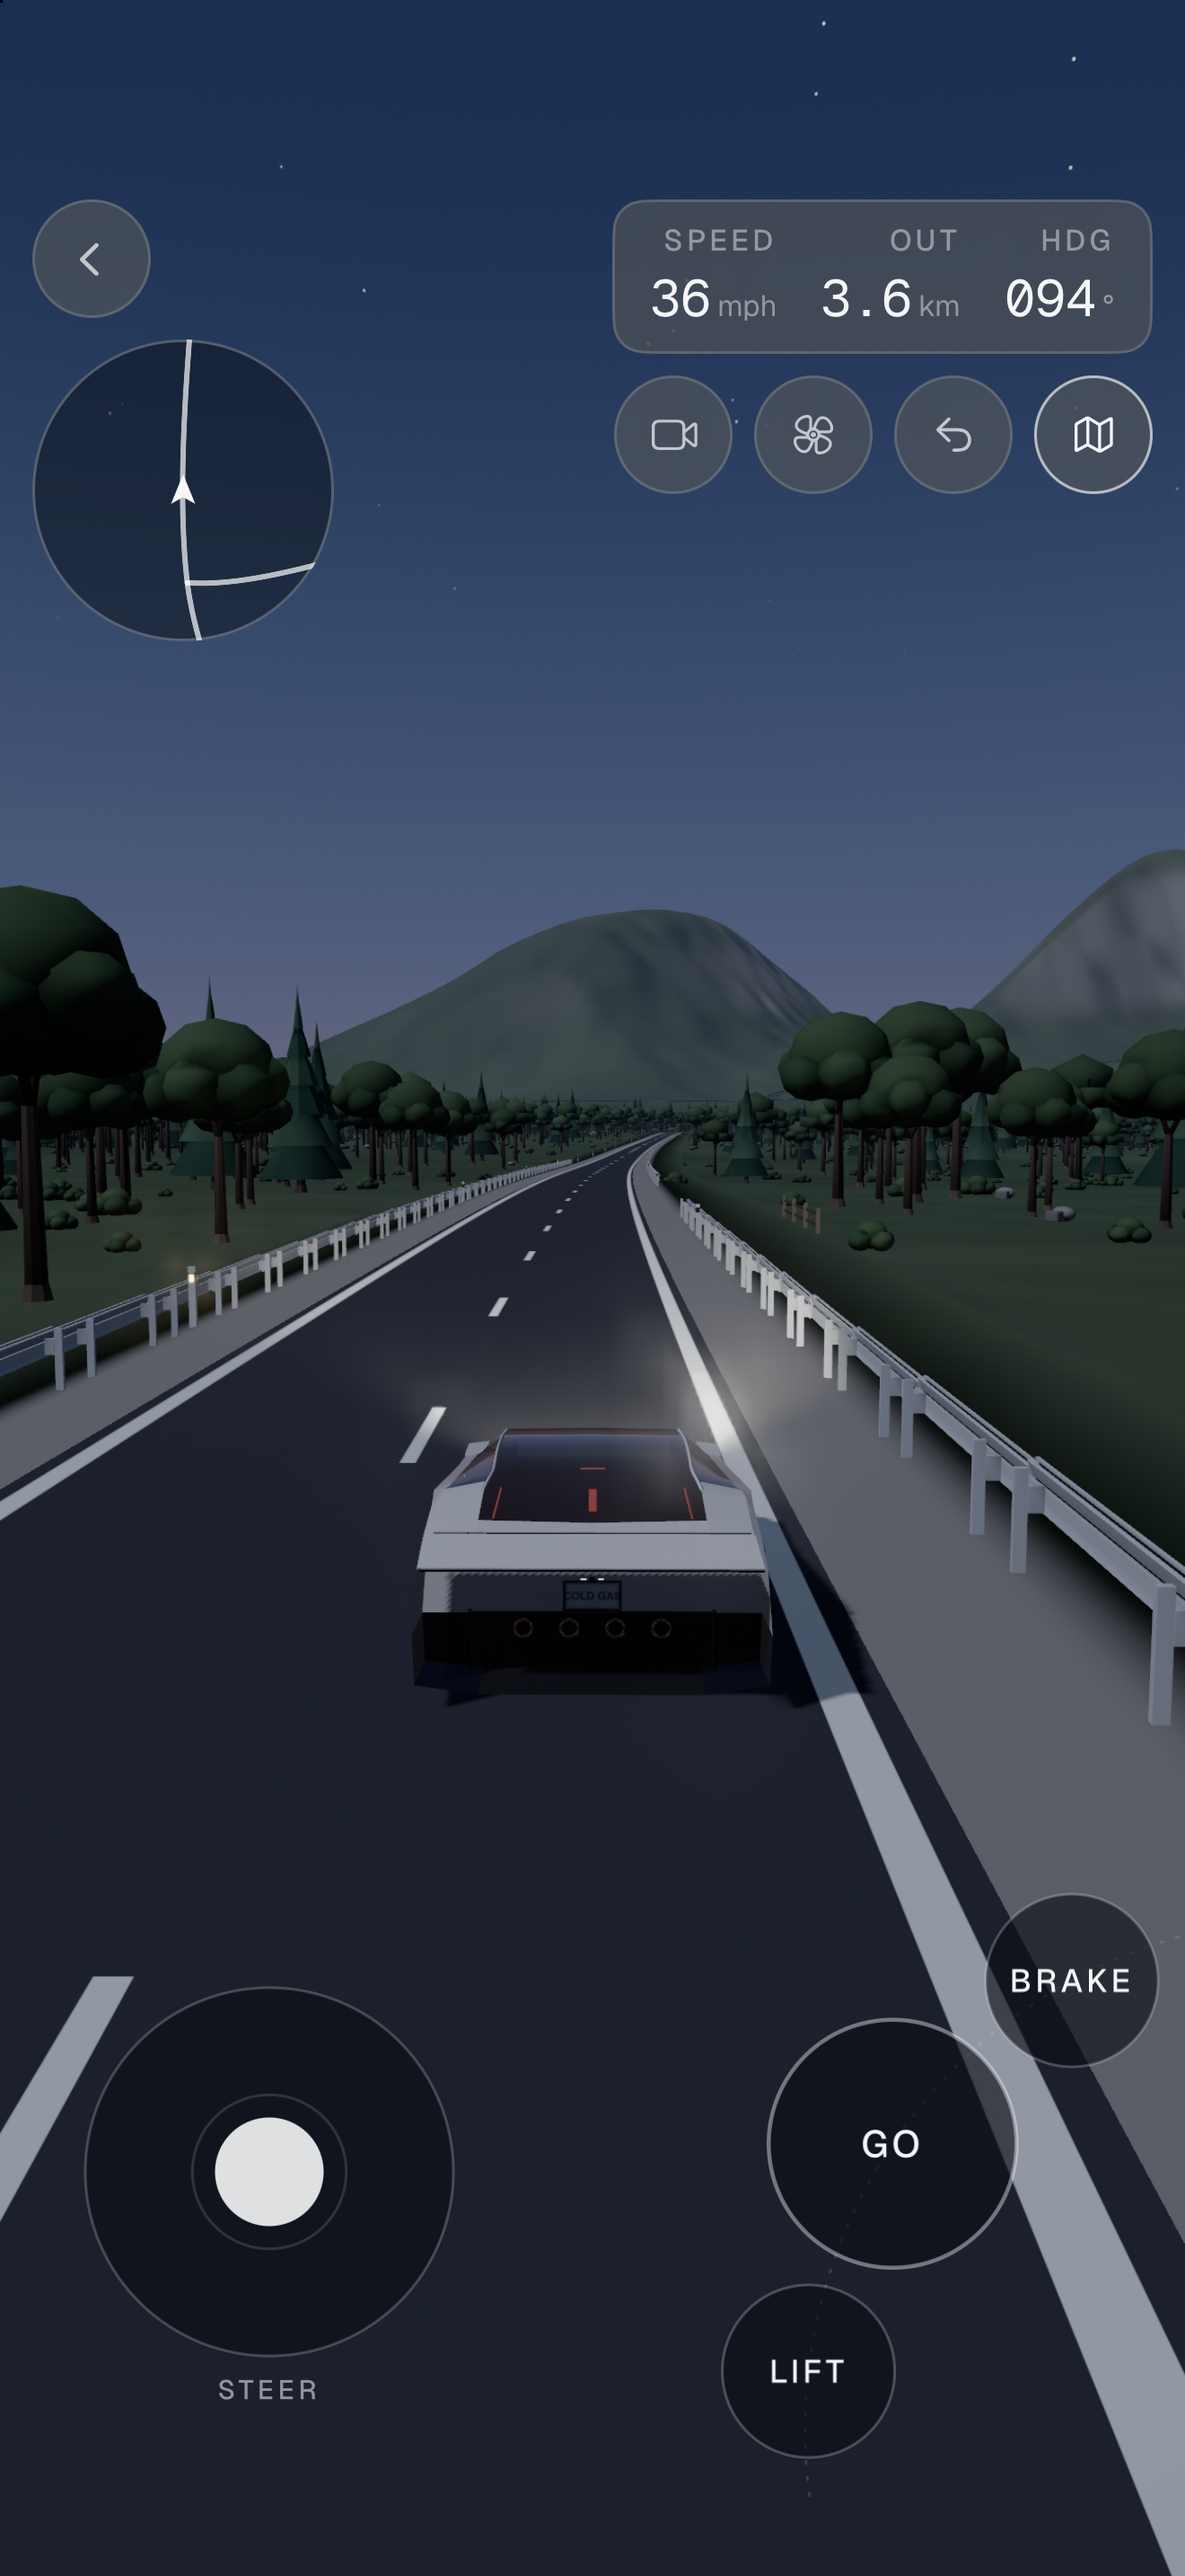
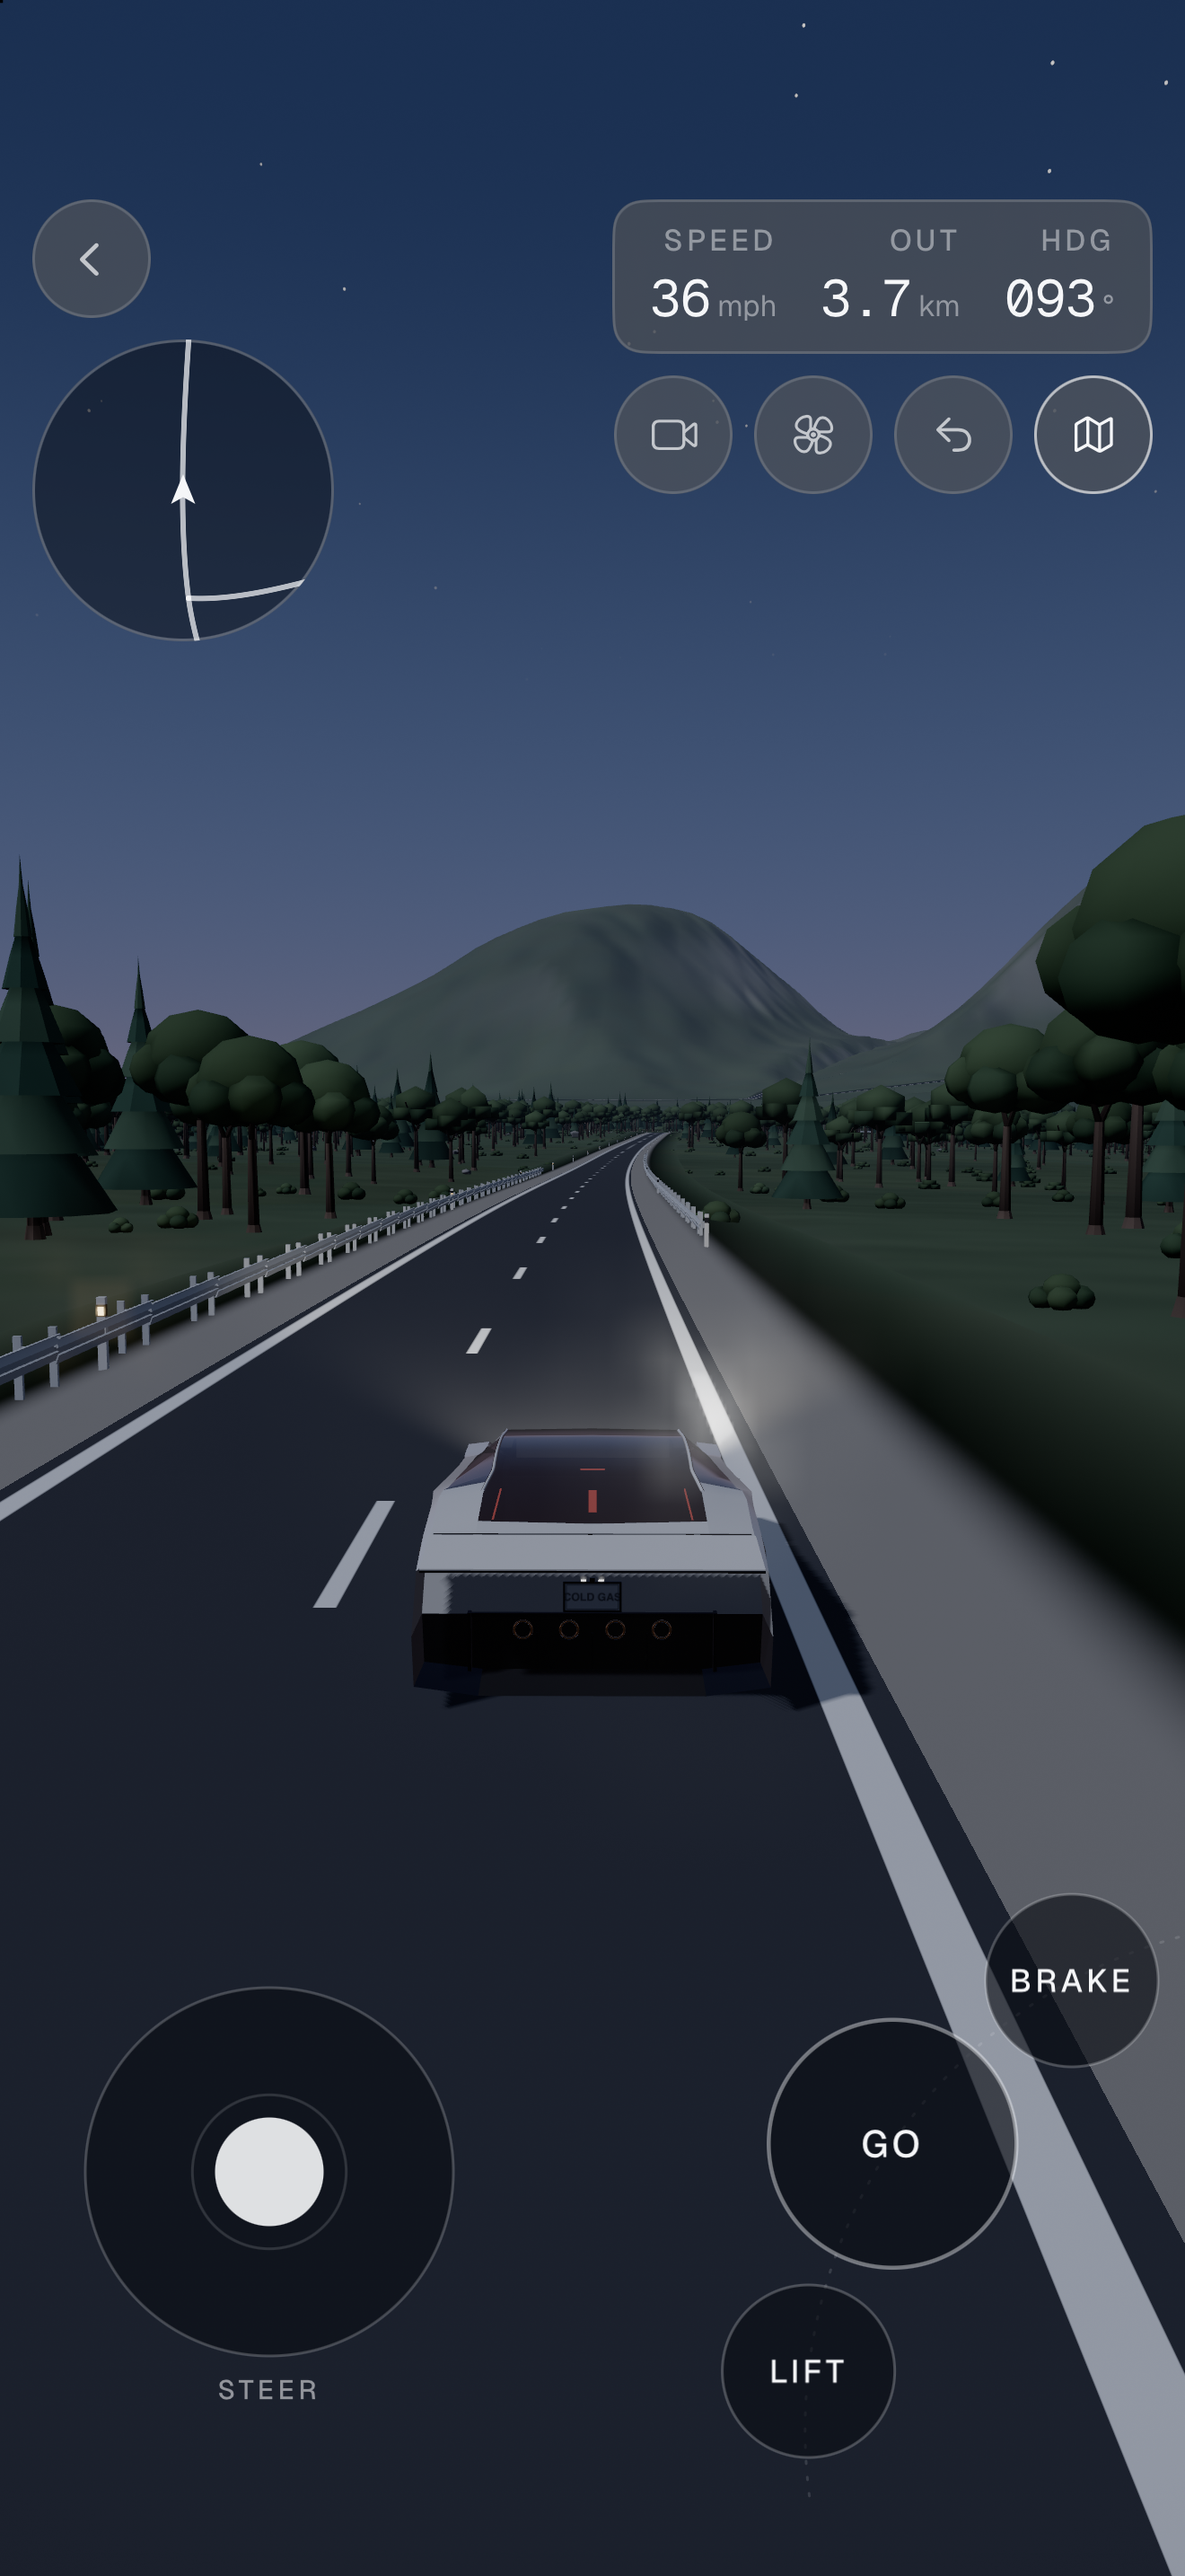
fix: 0227 guard rails face the road (the beam on the traffic side, the posts behind)
The forge's frame turned into the game's puts the W-beam on the section's local +x; the rails were turned with it away
from the road. The tests now approach each item from its road, as a car leaving the road meets it.

diff --git a/ios/Packages/ColdGasCore/Tests/ColdGasPhysicsTests/RoadsideTests.swift b/ios/Packages/ColdGasCore/Tests/ColdGasPhysicsTests/RoadsideTests.swift
@@ -9,6 +9,11 @@ import ColdGasWorld
 
 @Suite("The roadside breaks", .serialized)
 struct RoadsideTests {
+    /// The unit vector from the item toward its road (across the road, its local ±x).
+    func toRoad(_ world: FreeWorld, _ s: PropSolid) -> (Double, Double) {
+        let nx = DMath.dcos(s.yaw), nz = -DMath.dsin(s.yaw)
+        return world.ground(s.x + nx * 6, s.z + nz * 6).road < world.ground(s.x - nx * 6, s.z - nz * 6).road ? (nx, nz) : (-nx, -nz)
+    }
     /// The first roadside item of `kind` near the roads round (x, z), and its cell.
     func find(_ world: FreeWorld, _ kind: PropSolid.Kind, near x: Double, _ z: Double) -> PropSolid? {
         let C = PropSpec.cell
@@ -17,18 +22,18 @@ struct RoadsideTests {
             // A level spot (a car on a slope drives into it at an angle).
             if let s = cell.solids.first(where: { s in
                 guard s.kind == kind else { return false }
-                let h = s.yaw, nx = DMath.dcos(h), nz = -DMath.dsin(h)
-                return abs(world.ground(s.x - nx * 10, s.z - nz * 10).y - s.y) < 0.6
+                let (rx, rz) = toRoad(world, s)
+                return abs(world.ground(s.x + rx * 10, s.z + rz * 10).y - s.y) < 0.6
             }) { return s }
         } } }
         return nil
     }
-    /// A car `back` metres off the item's face, facing it, on a drive course with its streamer.
+    /// A car `back` metres off the item toward its road, facing it, on a drive course with its streamer.
     func car(_ world: FreeWorld, facing s: PropSolid, back: Double) -> (Vehicle, DriveStreamer, DriveModel) {
         let st = DriveStreamer(world: world), c = createVehicle(course: DRIVE_COURSE)
         c.world.streamer = st
-        // The item's face is its local x (across the road): approach along it.
-        let nx = DMath.dcos(s.yaw), nz = -DMath.dsin(s.yaw)
+        // From the road's side, across it (the way a car leaving the road meets it).
+        let (rx, rz) = toRoad(world, s), nx = -rx, nz = -rz
         let px = s.x - nx * back, pz = s.z - nz * back
         c.pos.x = px; c.pos.y = world.ground(px, pz).y + SPEC.comHeight + 0.05; c.pos.z = pz
         M3.quatFromYaw(c.quat, DMath.datan2(nx, nz))

diff --git a/ios/Packages/ColdGasCore/Sources/ColdGasWorld/Build.swift b/ios/Packages/ColdGasCore/Sources/ColdGasWorld/Build.swift
@@ -400,7 +400,8 @@ extension FreeWorld {
                     let ox = l.x[k] + hz * side * (Roadside.railLat + 3), oz = l.z[k] - hx * side * (Roadside.railLat + 3)
                     if roadY - ground(ox, oz, q).y >= 0.8 || (abs(turn) >= 0.045 && side == outside) {
                         // the rail's top 0.8 m over the road's edge (its foot on the shoulder's level)
-                        put(.guardrail, .rail, side, Roadside.railLat, Roadside.rail, roadY - 0.02, turn: side > 0 ? 0 : DMath.PI)
+                        // the forged rail's beam is on its local +x (the forge's −x, turned into the game's frame): toward the road
+                        put(.guardrail, .rail, side, Roadside.railLat, Roadside.rail, roadY - 0.02, turn: side > 0 ? DMath.PI : 0)
                         railed[si] = true
                     }
                 }
